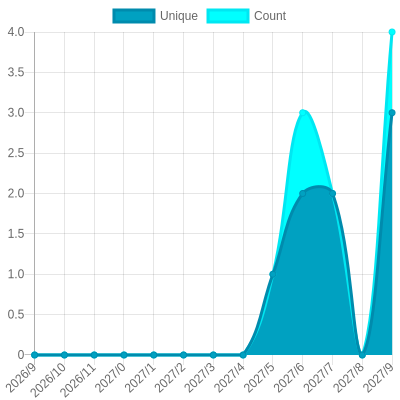
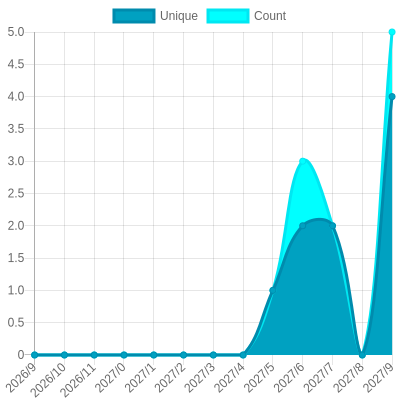
Update views

diff --git a/readme/658716039/year.md b/readme/658716039/year.md
@@ -23,10 +23,10 @@
 			<code>2026/10/1</code>
 		</td>
 		<td>
-			<code>3</code>
+			<code>4</code>
 		</td>
 		<td>
-			<code>4</code>
+			<code>5</code>
 		</td>
 	</tr>
 	<tr>
@@ -164,7 +164,7 @@
 </table>
 
 </details>
-<small><i>Last updated on 2026/10/26 4:18 AM UTC</i></small>
+<small><i>Last updated on 2026/10/26 12:41 PM UTC</i></small>
 
 ## ✂Copy and 📋 Paste
 ### SVG Badge

diff --git a/README.md b/README.md
@@ -69,7 +69,7 @@ The project created and maintained by [gayanvoice](https://github.com/gayanvoice
 	</tr>
 </table>
 
-<small><i>Last updated on 2026/10/26 4:19 AM UTC</i></small>
+<small><i>Last updated on 2026/10/26 12:41 PM UTC</i></small>
 
 ## ✂Copy and 📋 Paste
 ### Total Views Badge

diff --git a/readme/1013951127/year.md b/readme/1013951127/year.md
@@ -164,7 +164,7 @@
 </table>
 
 </details>
-<small><i>Last updated on 2026/10/26 4:18 AM UTC</i></small>
+<small><i>Last updated on 2026/10/26 12:40 PM UTC</i></small>
 
 ## ✂Copy and 📋 Paste
 ### SVG Badge

diff --git a/readme/891247015/year.md b/readme/891247015/year.md
@@ -164,7 +164,7 @@
 </table>
 
 </details>
-<small><i>Last updated on 2026/10/26 4:19 AM UTC</i></small>
+<small><i>Last updated on 2026/10/26 12:41 PM UTC</i></small>
 
 ## ✂Copy and 📋 Paste
 ### SVG Badge
